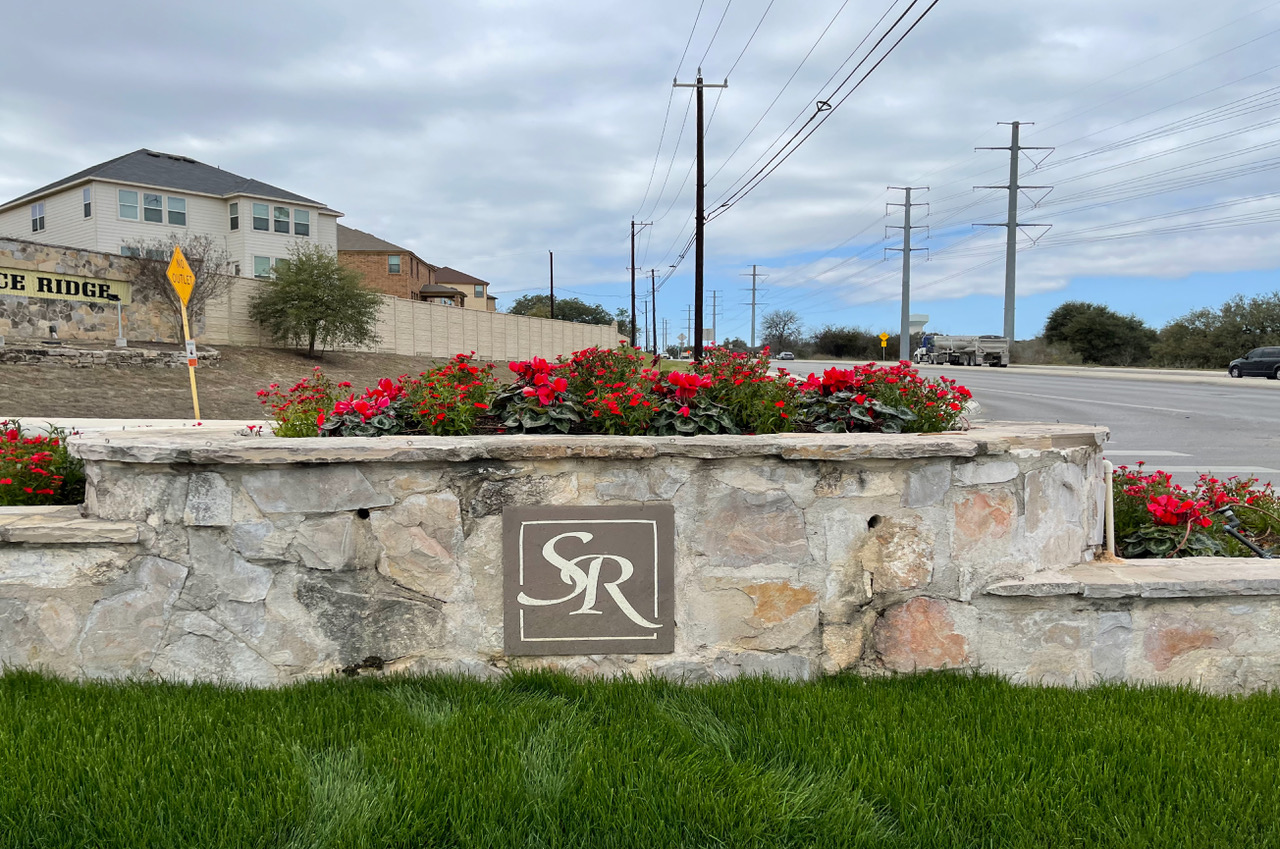
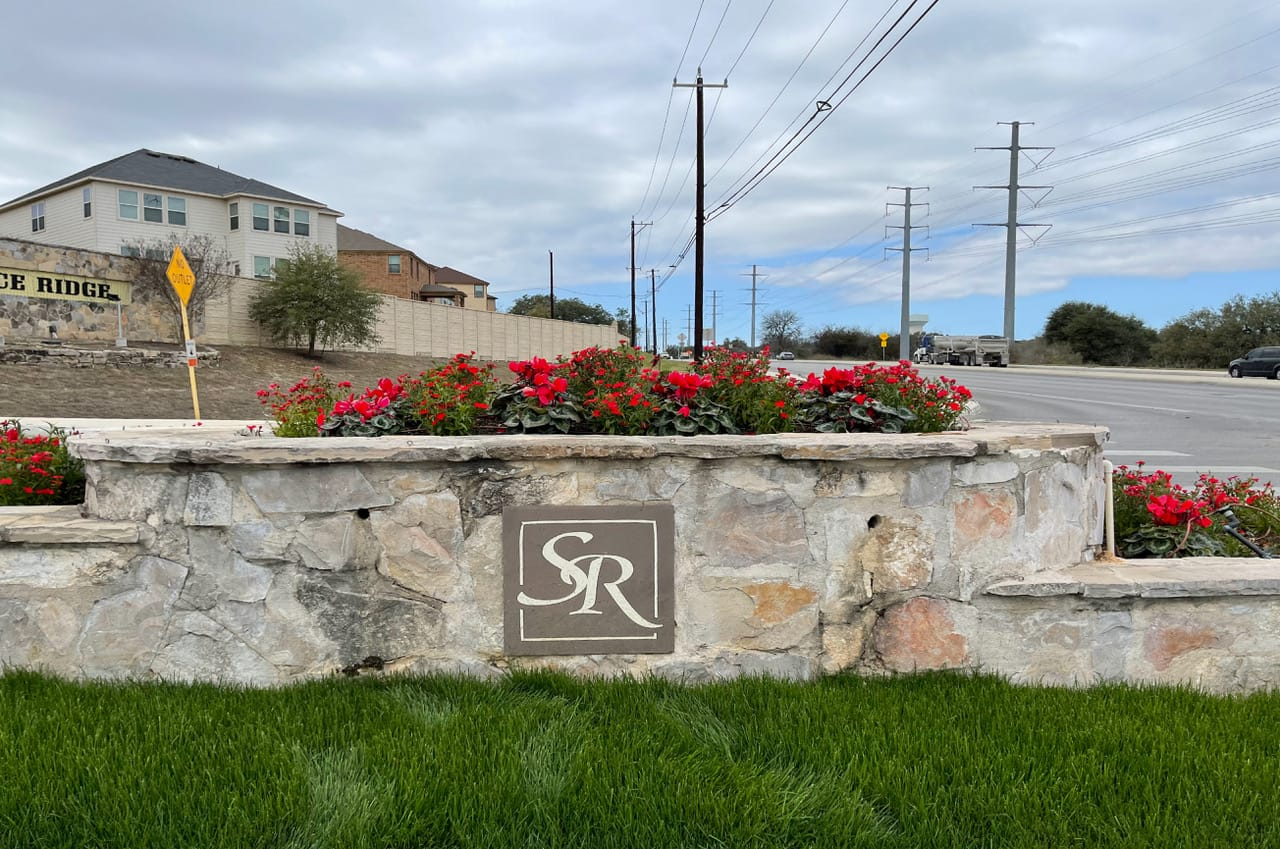
update images to have better compression

Changed region(s): [[0.2188, 0.3981, 0.75, 0.49], [0.9062, 0.5512, 0.9688, 0.6125], [0.875, 0.5512, 0.9062, 0.5819]]

diff --git a/src/stores/Img.store.ts b/src/stores/Img.store.ts
@@ -16,7 +16,7 @@ import imgFlowers2 from '../assets/img/img-flowers-2.jpg';
 import imgFoxGroveVideoThumbnail from '../assets/img/img-fox-grove-video-thumbnail.jpg';
 import imgGrass from '../assets/img/img-grass.jpg';
 import imgGuyKneeling from '../assets/img/img-guy-kneeling.jpg';
-import imgGuyPlanting1 from '../assets/img/img-guy-planting-1.png';
+import imgGuyPlanting1 from '../assets/img/img-guy-planting-1.jpeg';
 import imgGuyPlanting2 from '../assets/img/img-guy-planting-2.jpg';
 import imgGuyTeaching from '../assets/img/img-guy-teaching.jpg';
 import imgGuyTeaching2 from '../assets/img/img-guy-teaching-2.jpeg';
